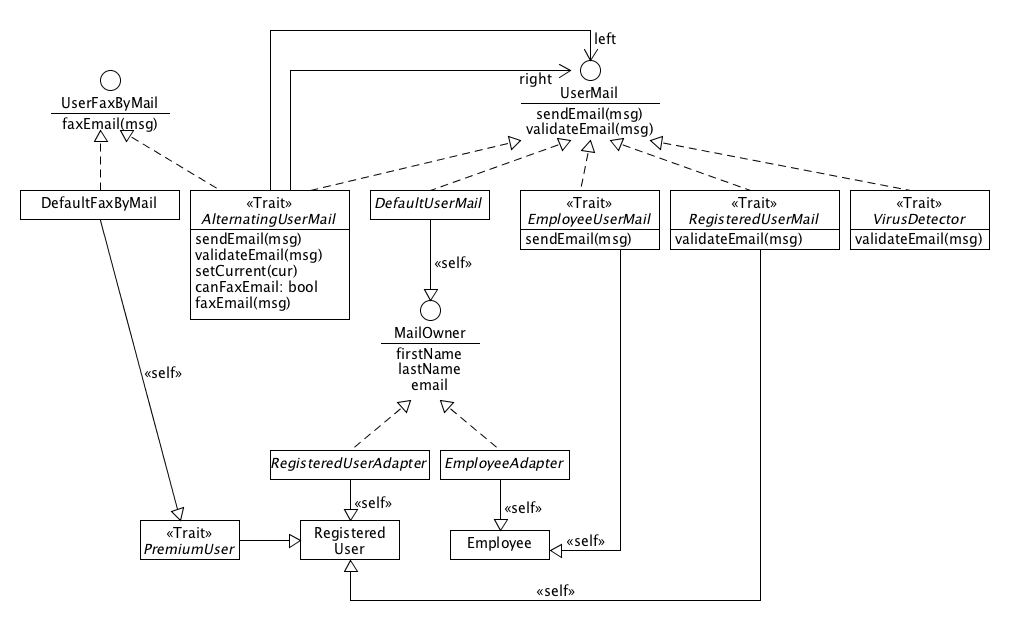
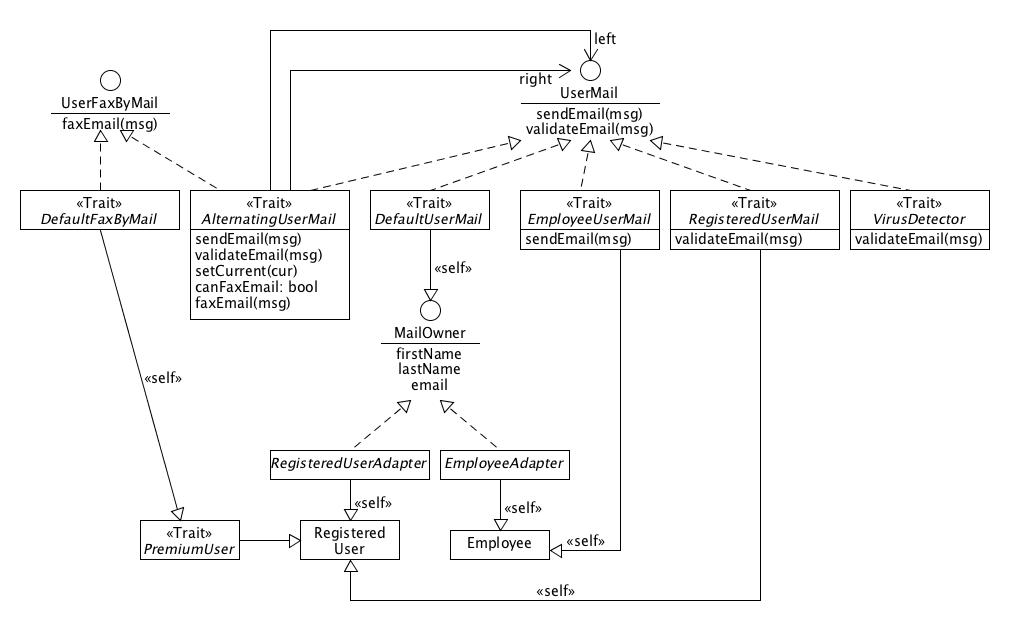
sw

diff --git a/_drafts/developing-protean-applications-part6.md b/_drafts/developing-protean-applications-part6.md
@@ -21,7 +21,7 @@ The domain model designed by means of traits is at first sight very similar to
 that of the non-trait case.
 
 <div>
-<img src="http://zslajchrt.github.io/resources/userAccountsTraits.png" width="280" />
+<img src="http://zslajchrt.github.io/resources/userAccountsTraits.png" width="380" />
 </div>
 
 However, there are several substantial differences.
@@ -69,7 +69,7 @@ The composition of the account classes, adapters and mail service types is depic
 on the following diagram.
 
 <div>
-<img src="http://zslajchrt.github.io/resources/mailServiceTraits.png" width="400" />
+<img src="http://zslajchrt.github.io/resources/mailServiceTraits.png" width="450" />
 </div>
 
 If we compare this diagram with its no-traits counterpart, there is
@@ -94,6 +94,15 @@ invokes `validateEmail` within its `sendEmail` method. The invocation jumps into
 the top-most trait overriding the `validateEmail` method, from where the invocation
 may be propagated by `super.validateEmail(msg)`.
 
+Similarly to the `VirusDetector`, the `UserFaxByMail` is also implemented as a trait,
+as shown in the following picture.
+
+<div>
+<img src="http://zslajchrt.github.io/resources/faxServicesTraits.png" width="380" />
+</div>
+
+The trait is applied only if the user is a premium customer.
+
 So far the design has manifested no flaws. Unfortunately, the implementation
 of the `AlternatingUserMail` must introduce some delegation. As seen in the
 following figure, the model is identical to that of the no-trait case.
@@ -105,6 +114,12 @@ following figure, the model is identical to that of the no-trait case.
 The reason is that the trait platform has no type-safe tool to implement an instance,
 whose composition could be modified in real-time. Thus, all issues described
 in the no-trait case hold here as well.
+
+The whole system is depicted on the following diagram:
+
+<div>
+<img src="http://zslajchrt.github.io/resources/mailServiceTraitsAll.png" width="320" />
+</div>
 
 #####Assembling the Service
 
@@ -147,6 +162,7 @@ caused mainly by the Scala's syntax and partly by using traits. For example,
 it is not necessary to define the auxiliary `Premium` class, since the `PremiumUser`
 trait can be specified as part of the anonymous class signature in the `new` statement.
 
+The complete source code may be viewed [here](https://github.com/zslajchrt/morpheus-tutor/tree/master/src/main/scala/org/cloudio/morpheus/mail/traditional).
 
 ####Summary
 
